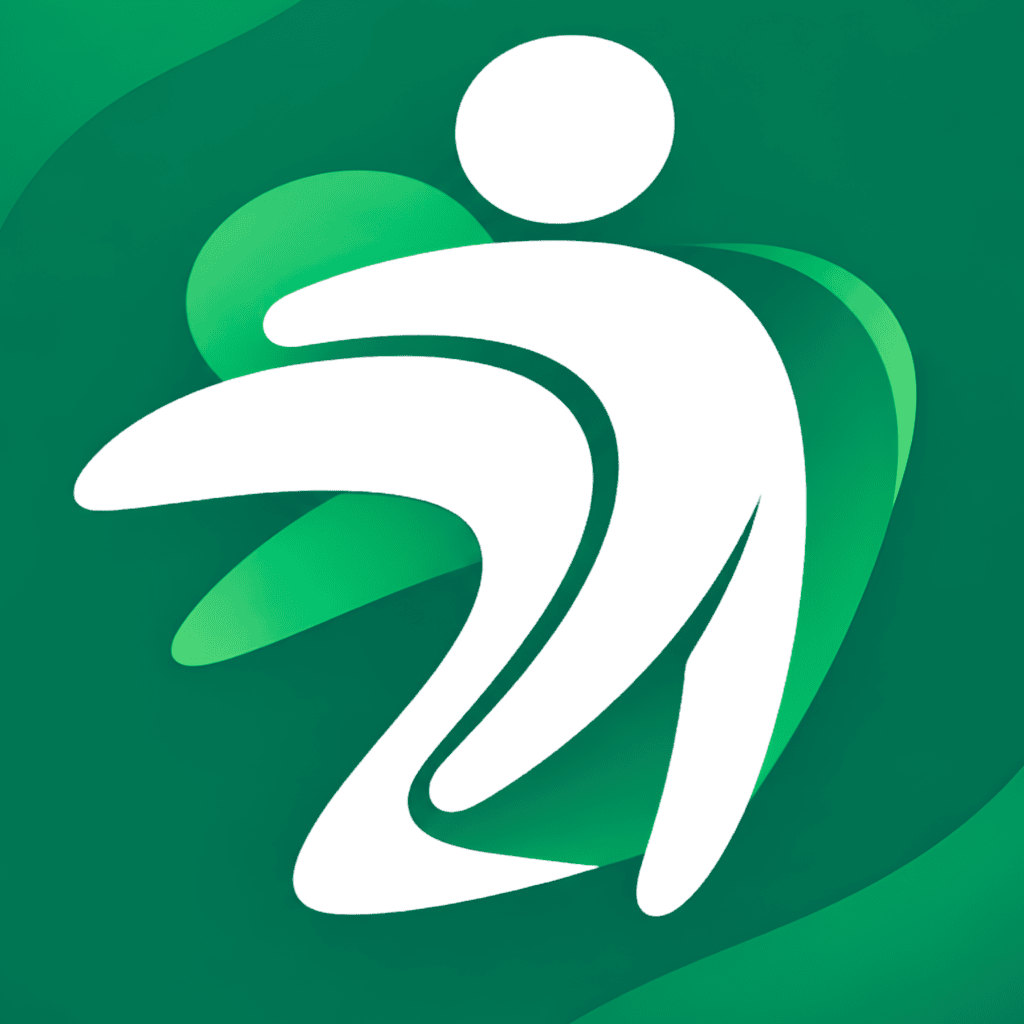
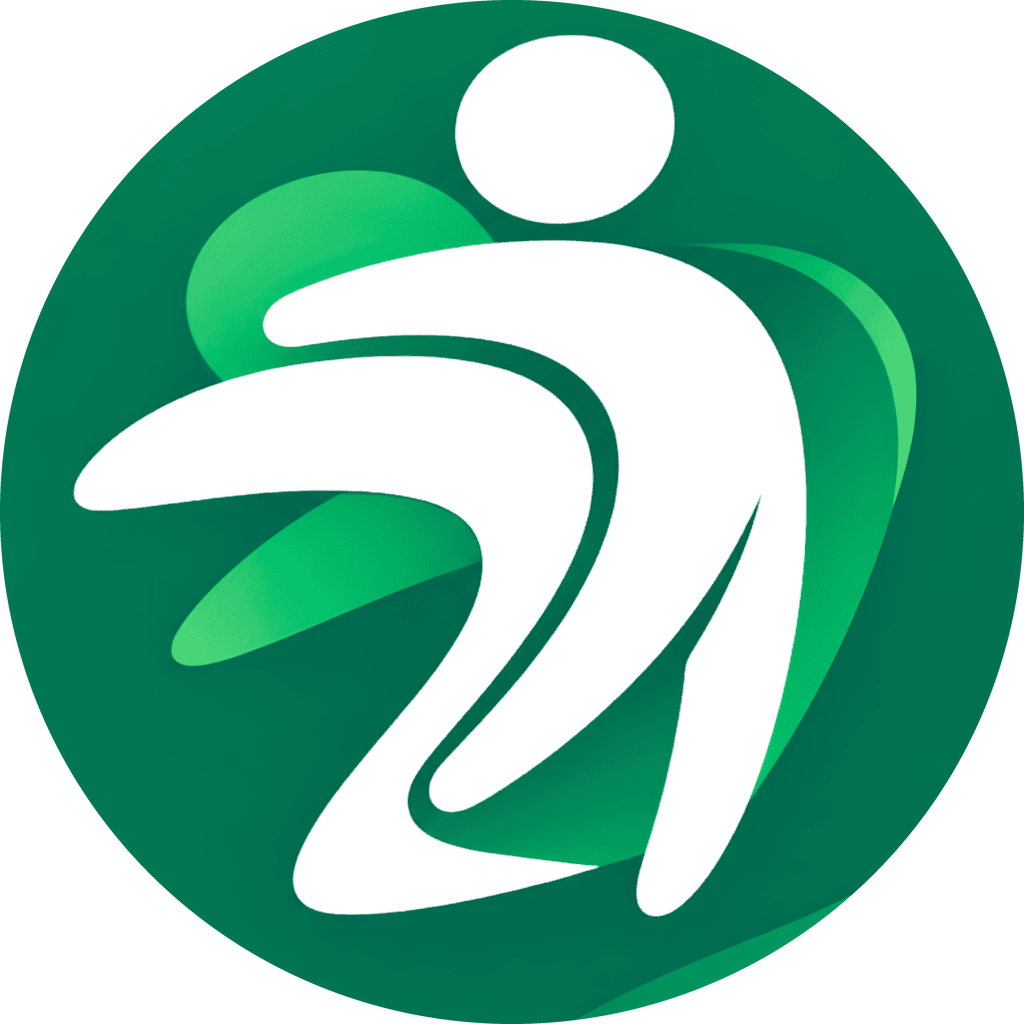
feat: update app assets, intro screen, and launch configuration

diff --git a/src/app/intro.tsx b/src/app/intro.tsx
@@ -4,6 +4,7 @@ import {
   Text,
   StyleSheet,
   Pressable,
+  Image,
   ScrollView,
   useWindowDimensions,
   NativeSyntheticEvent,
@@ -75,6 +76,8 @@ const SLIDES: Slide[] = [
   },
 ];
 
+const LOGO = require('../../assets/images/logo-round.png');
+
 export default function IntroScreen() {
   const router = useRouter();
   const { markIntroSeen } = useAuth();
@@ -103,9 +106,7 @@ export default function IntroScreen() {
     <SafeAreaView style={styles.safeArea}>
       <View style={styles.topBar}>
         <View style={styles.brandRow}>
-          <View style={styles.brandMark}>
-            <AppIcon name="flash" size={16} color={Palette.lime} />
-          </View>
+          <Image source={LOGO} style={styles.brandMark} />
           <Text style={styles.brandText}>MUVIBE</Text>
         </View>
         {!isLast && (
@@ -181,18 +182,14 @@ const styles = StyleSheet.create({
     paddingHorizontal: Spacing.space5,
     paddingVertical: Spacing.space3,
   },
+  brandMark: {
+    width: 28,
+    height: 28,
+  },
   brandRow: {
     flexDirection: 'row',
     alignItems: 'center',
     gap: Spacing.space2,
-  },
-  brandMark: {
-    width: 28,
-    height: 28,
-    borderRadius: Radius.sm,
-    backgroundColor: Palette.forest,
-    alignItems: 'center',
-    justifyContent: 'center',
   },
   brandText: {
     ...Typography.cardHeading,
